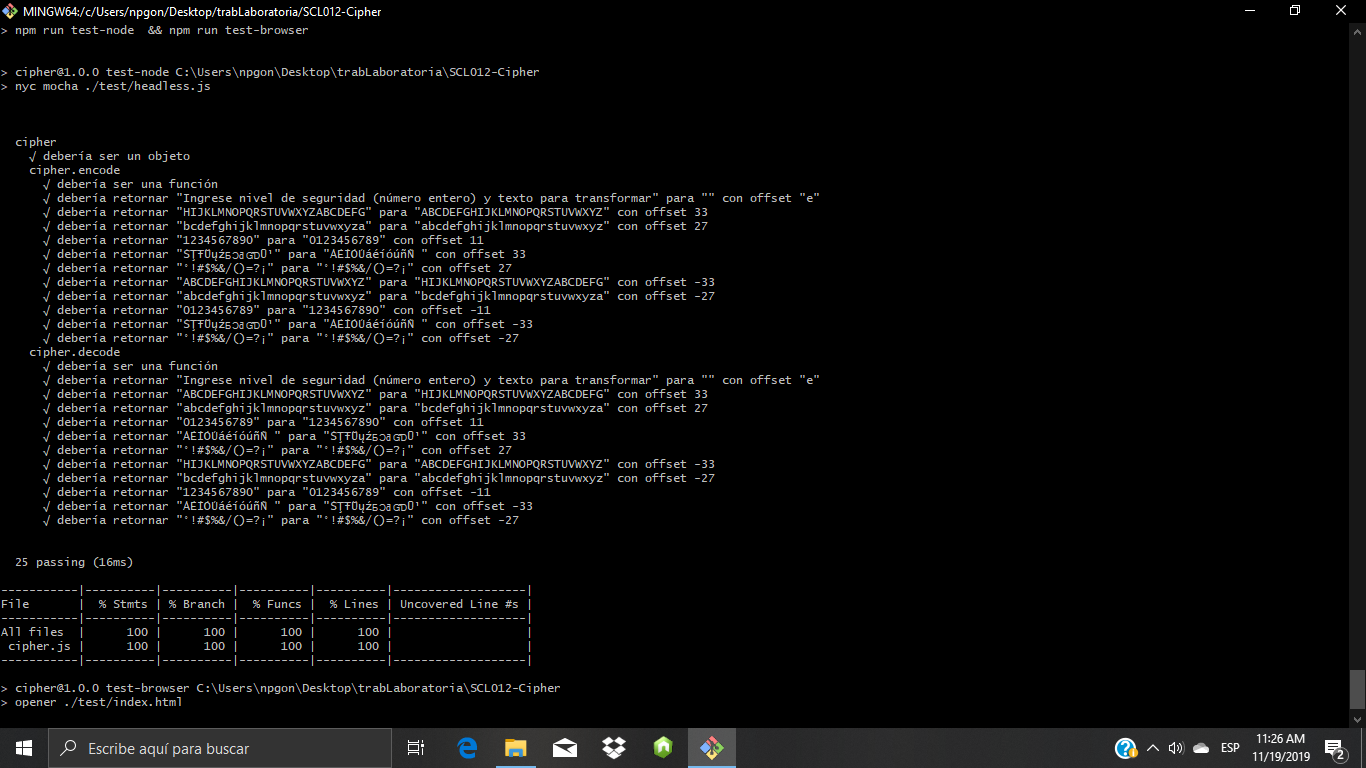
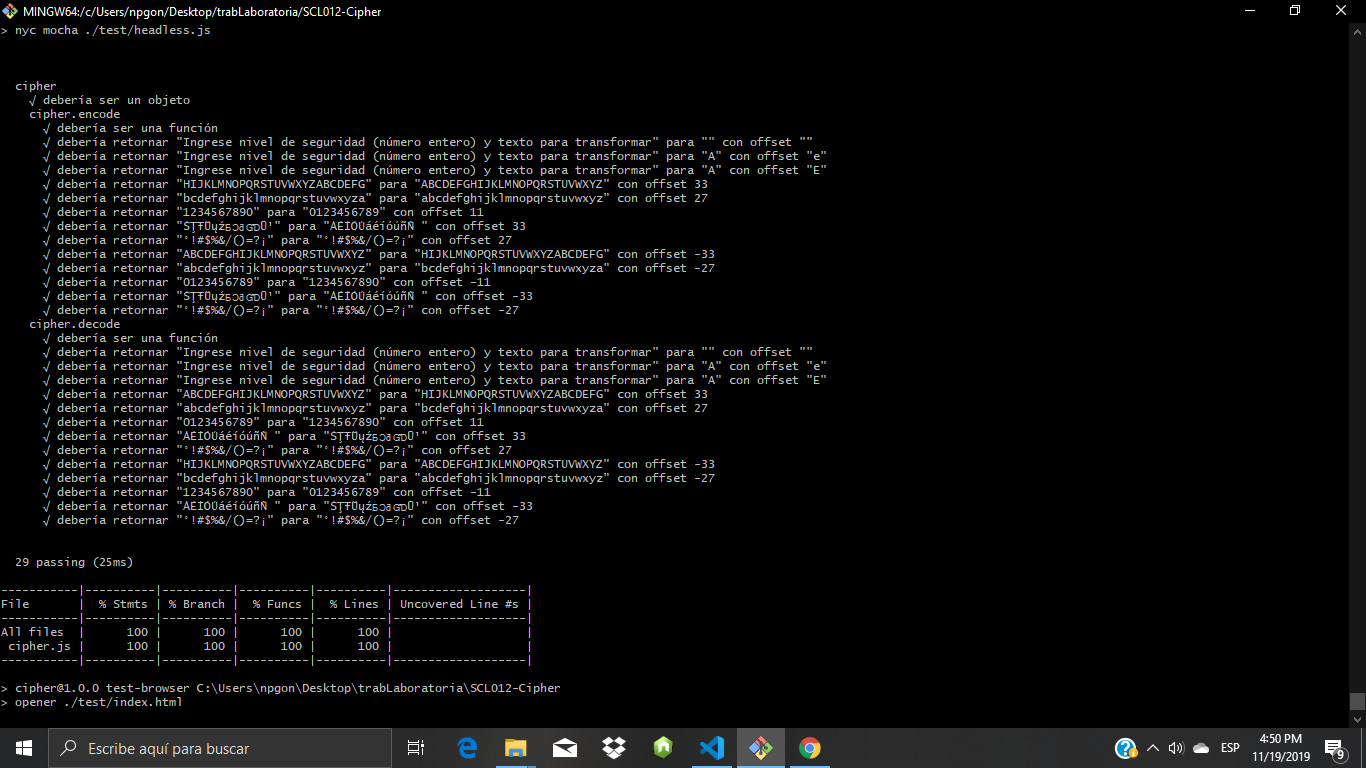
Fifth Iteration

diff --git a/src/cipher.js b/src/cipher.js
@@ -1,12 +1,19 @@
 window.cipher = {
   encode: (offset,string) => {
     let newText='';
+
 //VALIDACIÓN DE TIPO DE OFFSET Y QUE STRING SEA DISTINTO DE VACÍO
-      if((string==='')||(offset==='')||(offset==='e')||(offset==='E')){ //valida cadena vacía
+      if((string==='')||(offset==='')){ //valida cadena vacía
         return ('Ingrese nivel de seguridad (número entero) y texto para transformar');
-      }
+       }
       else{
+        if((offset==='e')||(offset==='E')){ 
+          return ('Ingrese nivel de seguridad (número entero) y texto para transformar');
+        }
+        else{
+        let newOffset=parseInt(offset);
         for(let i=0; i<=(string.length-1); i++){ 
+        
 //TRANSFORMA VOCALES MAYÚSCULAS CON ACENTOS, VOCALES MINÚSCULAS CON ACENTO, ñ, Ñ Y ESPACIO
         if ((string.charCodeAt(i)===193) || (string.charCodeAt(i)===201) || (string.charCodeAt(i)===205) || (string.charCodeAt(i)===211) || (string.charCodeAt(i)===218) ||
         (string.charCodeAt(i)===225) || (string.charCodeAt(i)===233) || (string.charCodeAt(i)===237) || (string.charCodeAt(i)===243) ||(string.charCodeAt(i)===250)||
@@ -25,21 +32,21 @@ window.cipher = {
 //OFFSET POSITIVO    
 //TRANSFORMA ABECEDARIO SIMPLE MAYÚSCULAS                                     
             else{                              
-              if (offset>=0){
+              if (newOffset>=0){
                 if((string.charCodeAt(i)>=65)&&(string.charCodeAt(i)<=90)){ //Modifica abecedario simple mayúscula
-                  newText += String.fromCharCode((string.charCodeAt(i)+offset-65)%26 + 65);
+                  newText += String.fromCharCode((string.charCodeAt(i)+newOffset-65)%26 + 65);
                 }
 
 //TRANSFORMA ABECEDARIO SIMPLE MINÚSCULAS                                                                                                              
                  else{
                   if((string.charCodeAt(i)>=97)&&(string.charCodeAt(i)<=122)){ //Modifica abecedario simple minúscula
-                    newText +=String.fromCharCode((string.charCodeAt(i)+offset-97)%26 + 97);
+                    newText +=String.fromCharCode((string.charCodeAt(i)+newOffset-97)%26 + 97);
                    }
 
 //TRANSFORMA DÍGITOS 0 AL 9                                                                                                                  
                    else{
                     if((string.charCodeAt(i)>=48)&&(string.charCodeAt(i)<=57)){ //Modifica números
-                      newText += (String.fromCharCode((string.charCodeAt(i)+offset-48)%10+48));
+                      newText += (String.fromCharCode((string.charCodeAt(i)+newOffset-48)%10+48));
                    }
 
 //MANTIENE CUALQUIER OTRO CARACTER DISTINTO DE LOS TRANSFORMADOS EN LOS CASOS ANTERIORES                                                                                                                
@@ -55,19 +62,19 @@ window.cipher = {
 //ABECEDARIO SIMPLE MAYÚSCULAS                
             else{
               if((string.charCodeAt(i)>=65)&&(string.charCodeAt(i)<=90)){//Modifica abecedario simple mayúscula
-                newText += String.fromCharCode((string.charCodeAt(i) - Math.abs(offset)-90)%26 + 90);
+                newText += String.fromCharCode((string.charCodeAt(i) - Math.abs(newOffset)-90)%26 + 90);
               }
 
               //ABECEDARIO SIMPLE MINÚSCULAS
                else{
                  if((string.charCodeAt(i)>=97)&&(string.charCodeAt(i)<=122)){//modifica abecedario simple minúscula
-                  newText += String.fromCharCode((string.charCodeAt(i)-Math.abs(offset)-122)%26 + 122);
+                  newText += String.fromCharCode((string.charCodeAt(i)-Math.abs(newOffset)-122)%26 + 122);
                  }
 
 //DÍGITOS 0 AL 9                              
                  else{
                    if((string.charCodeAt(i)>=48)&&(string.charCodeAt(i)<=57)){//Modifica números
-                    newText += String.fromCharCode((string.charCodeAt(i)-Math.abs(offset)-57)%10 + 57);
+                    newText += String.fromCharCode((string.charCodeAt(i)-Math.abs(newOffset)-57)%10 + 57);
                    }  
 
 //MANTIENE CUALQUIER OTRO CARACTER DISTINTO DE LOS TRANSFORMADOS EN LOS CASOS ANTERIORES
@@ -79,22 +86,25 @@ window.cipher = {
                     }
                    }   
                   }
-                 }                                 
-                                                                      
+                 }                                                                                                    
     return newText;  
-  }                   
-                 
+        }
+        }                            
   },
   decode: (offset,string) => {
   //VALIDACIÓN DE TIPO DE OFFSET Y QUE STRING SEA DISTINTO DE VACÍO
-    if((string==='')||(offset==='')||(offset==='e')||(offset==='E')){ //valida cadena vacía
+    if((string==='')||(offset==='')){ //valida cadena vacía
       return ('Ingrese nivel de seguridad (número entero) y texto para transformar');
     }
-
     else{
-      let changeOffsetSign= -offset;
-      return cipher.encode(changeOffsetSign,string);
-     
+     if((offset==='e')||(offset==='E')){ //valida cadena vacía
+        return ('Ingrese nivel de seguridad (número entero) y texto para transformar');
+    }
+    else{
+      let newOffset=parseInt(offset);
+      let changeOffsetSign= -newOffset;
+      return cipher.encode(changeOffsetSign,string); 
+      }
+    }
   }
-}
 };

diff --git a/test/cipher.spec.js b/test/cipher.spec.js
@@ -11,9 +11,17 @@ describe('cipher', () => {
     });
 
   //Validación ingreso de string y offset número
-    it('debería retornar "Ingrese nivel de seguridad (número entero) y texto para transformar" para "" con offset "e"',()=>{
-      assert.equal(cipher.encode("e",""),'Ingrese nivel de seguridad (número entero) y texto para transformar');
+    it('debería retornar "Ingrese nivel de seguridad (número entero) y texto para transformar" para "" con offset ""',()=>{
+      assert.equal(cipher.encode("",""),'Ingrese nivel de seguridad (número entero) y texto para transformar');
     });
+    it('debería retornar "Ingrese nivel de seguridad (número entero) y texto para transformar" para "A" con offset "e"',()=>{
+      assert.equal(cipher.encode("e","A"),'Ingrese nivel de seguridad (número entero) y texto para transformar');
+    });
+
+    it('debería retornar "Ingrese nivel de seguridad (número entero) y texto para transformar" para "A" con offset "E"',()=>{
+      assert.equal(cipher.encode("E","A"),'Ingrese nivel de seguridad (número entero) y texto para transformar');
+    });
+
 //CODIFICADO OFFSET POSITIVO
   //Alfabeto simple Mayúscula
     it('debería retornar "HIJKLMNOPQRSTUVWXYZABCDEFG" para "ABCDEFGHIJKLMNOPQRSTUVWXYZ" con offset 33',()=>{
@@ -73,10 +81,16 @@ describe('cipher', () => {
       assert.equal(typeof cipher.decode, 'function');
     });
   //Validación ingreso de string
-  it('debería retornar "Ingrese nivel de seguridad (número entero) y texto para transformar" para "" con offset "e"',()=>{
-    assert.equal(cipher.decode("e",""),'Ingrese nivel de seguridad (número entero) y texto para transformar');
+  it('debería retornar "Ingrese nivel de seguridad (número entero) y texto para transformar" para "" con offset ""',()=>{
+    assert.equal(cipher.decode("",""),'Ingrese nivel de seguridad (número entero) y texto para transformar');
+  });
+  it('debería retornar "Ingrese nivel de seguridad (número entero) y texto para transformar" para "A" con offset "e"',()=>{
+    assert.equal(cipher.decode("e","A"),'Ingrese nivel de seguridad (número entero) y texto para transformar');
   });
 
+  it('debería retornar "Ingrese nivel de seguridad (número entero) y texto para transformar" para "A" con offset "E"',()=>{
+    assert.equal(cipher.decode("E","A"),'Ingrese nivel de seguridad (número entero) y texto para transformar');
+  });
 //OFFSET POSITIVO
   //Abecedario simple mayúsculas
   it('debería retornar "ABCDEFGHIJKLMNOPQRSTUVWXYZ" para "HIJKLMNOPQRSTUVWXYZABCDEFG" con offset 33',()=>{

diff --git a/src/style.css b/src/style.css
@@ -76,6 +76,7 @@ margin-right: 10px;
 }
 
 #offset{
+width:80px;
 border-radius:8px;
 margin-left:10px;
 text-align: center;
@@ -115,16 +116,16 @@ margin-right: 5px;
 }
 
 .firstButton{
-height: 35px;
-float: right;
-width:153px;
-padding: 5px;
-font-size: 15px;
-color:#FDFDFF;  
-background-color:#661E13;
-border-radius: 8px;
-margin-left:5px;
-border:1px solid #5D576B;;  
+  height: 35px;
+  float: right;
+  width:153px;
+  padding: 5px;
+  font-size: 15px;
+  color:#FDFDFF;  
+  background-color:#661E13;
+  border-radius: 8px;
+  margin-left:5px;
+  border:1px solid #5D576B;
 }
   
 .firstButton:hover{

diff --git a/src/index.html b/src/index.html
@@ -12,7 +12,7 @@
  </div>
       <div class="contenedor">
       
-          <form action="mailto:you@yourdmainhere.com" method="GET" enctype="text/plain" >                              
+          <form action="" method="GET" enctype="text/plain" >                              
         
        <div id="contIzq">
           <div id="contenidoIzq">       
